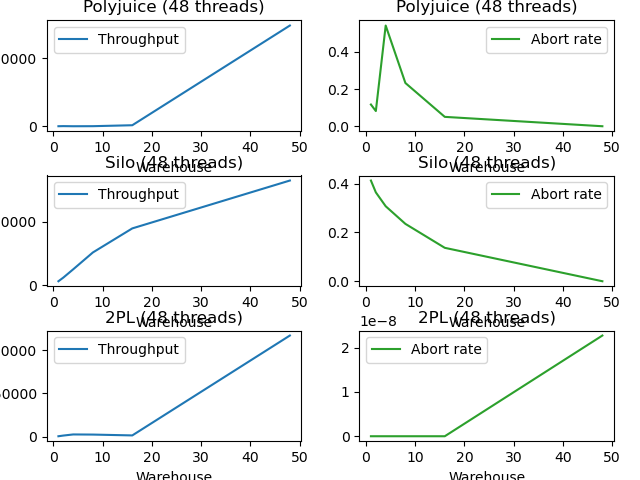
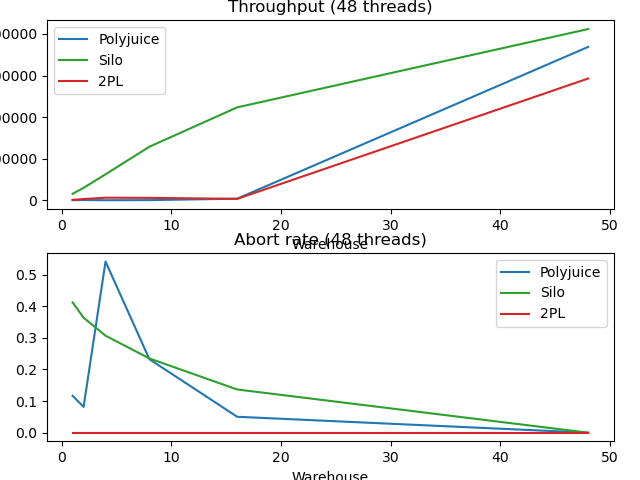
change figure layout

diff --git a/plot_csv_scalability.py b/plot_csv_scalability.py
@@ -6,13 +6,13 @@ if len(sys.argv) < 2:
     print('Error: requires a csv file to plot.')
     sys.exit(1)
 
-thread = 48
+warehouse = 1
 res = {'Polyjuice': [[], [], []], 'Silo': [[], [], []], '2PL': [[], [], []]}
 
 with open('csvs/' + sys.argv[1] + '.csv', 'r') as csv_file:
     reader = csv.reader(csv_file)
     for row in reader:
-        res[row[0]][0].append(int(row[2])) 
+        res[row[0]][0].append(int(row[1])) 
         res[row[0]][1].append(float(row[3]))
         res[row[0]][2].append(float(row[4]))
 csv_file.close()
@@ -21,21 +21,21 @@ fig, axs = plt.subplots(2)
 fig.tight_layout()
 
 # Throughput subplot
-axs[0].set_title('Throughput' + ' (' + str(thread) + ' threads)')
+axs[0].set_title('Throughput' + ' (' + str(warehouse) + ' warehouses)')
 axs[0].plot(res['Polyjuice'][0], res['Polyjuice'][1], 'tab:blue', label='Polyjuice')
 axs[0].plot(res['Silo'][0], res['Silo'][1], 'tab:green', label='Silo')
 axs[0].plot(res['2PL'][0], res['2PL'][1], 'tab:red', label='2PL')
 axs[0].legend()
 
 # Abort rate subplot
-axs[1].set_title('Abort rate' + ' (' + str(thread) + ' threads)')
+axs[1].set_title('Abort rate' + ' (' + str(warehouse) + ' warehouses)')
 axs[1].plot(res['Polyjuice'][0], res['Polyjuice'][2], 'tab:blue', label='Polyjuice')
 axs[1].plot(res['Silo'][0], res['Silo'][2], 'tab:green', label='Silo')
 axs[1].plot(res['2PL'][0], res['2PL'][2], 'tab:red', label='2PL')
 axs[1].legend()
 
 for ax in axs.flat:
-    ax.set(xlabel='Warehouse')
+    ax.set(xlabel='Thread')
 
 plt.savefig('figures/' + sys.argv[1] + '.png')
 print('Plot complete. Result figure stored in figures/' + sys.argv[1] + '.png')
